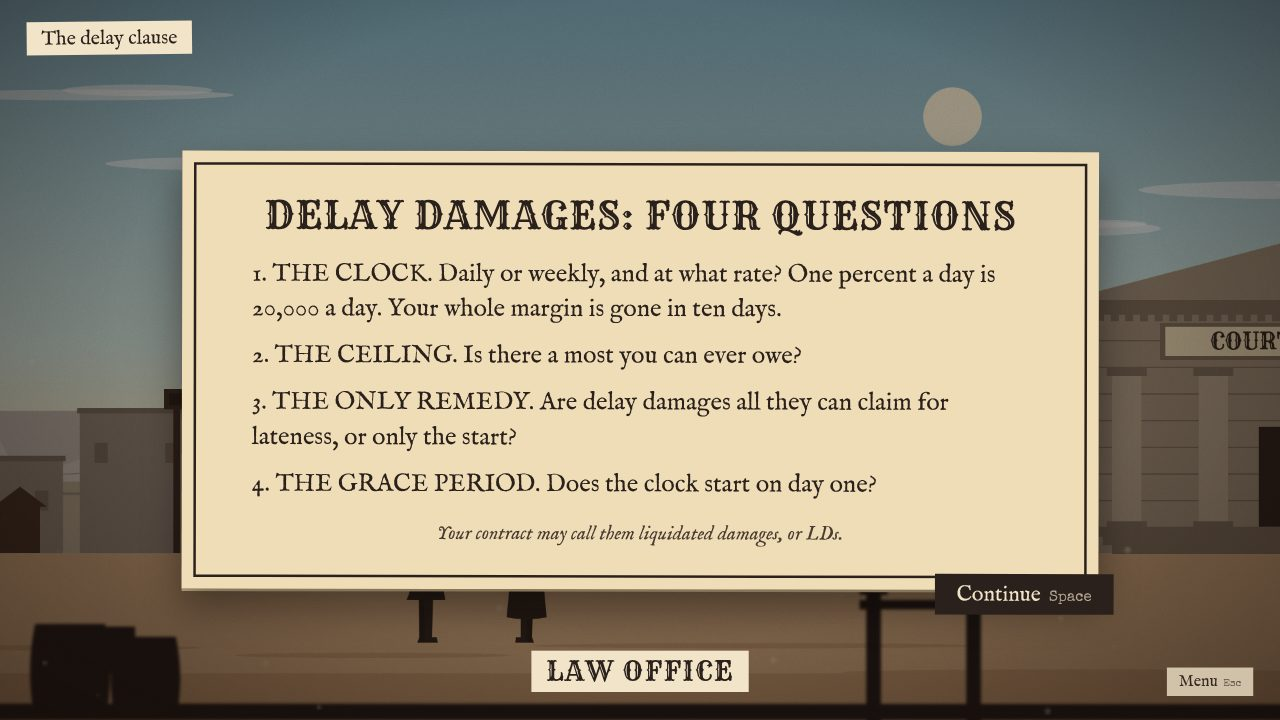
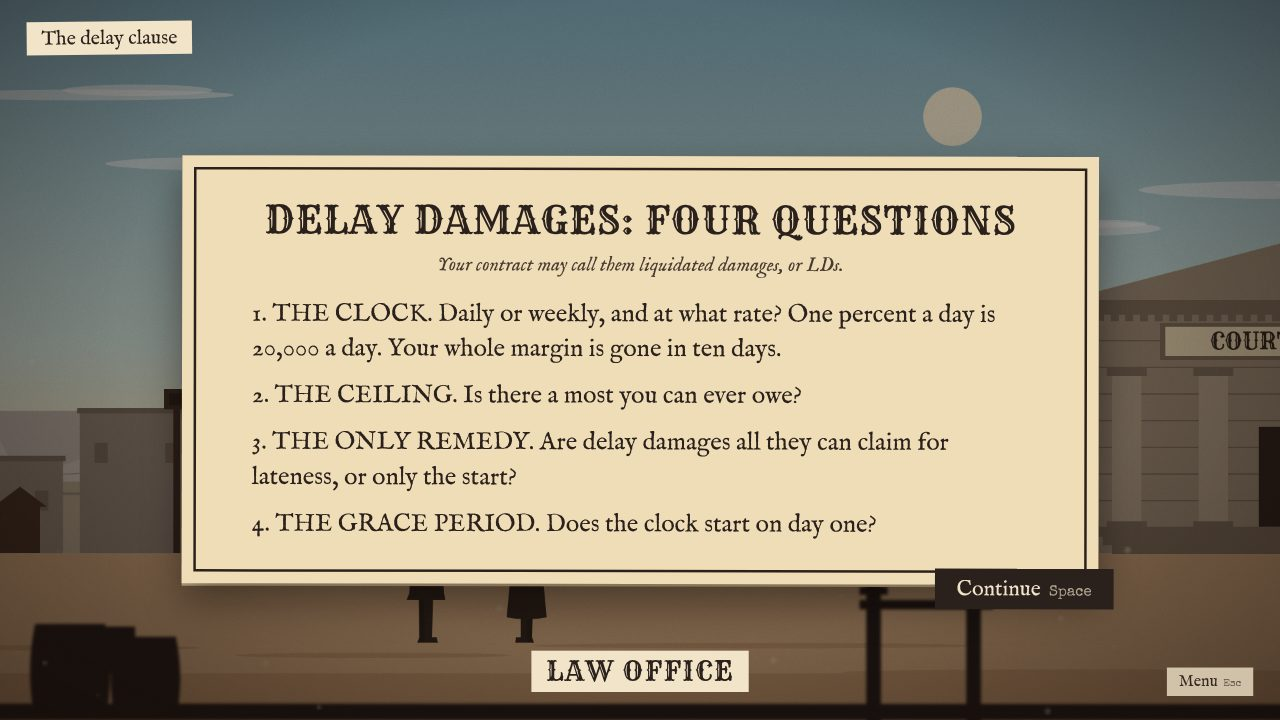
M5: review fixes
The card's small print goes under its title, the pick panel's portrait goes with the
hint (the speaker's line), and large text reaches 38 on the debrief and posters. Skip
keeps a deal that reached its ledger. The reduced-motion run also checks that nothing
walked or typed.

Changed region(s): [[0.125, 0.3667, 0.875, 0.8556], [0.1562, 0.1833, 0.875, 0.2444], [0.1875, 0.275, 0.8125, 0.3361]]

diff --git a/tools/shots.js b/tools/shots.js
@@ -44,7 +44,7 @@ const SHOTS = [
   { name: 'm4-paper', run: J(['clone'], 'later'), wait: 1400 },
   { name: 'm4-end-claim', run: J(['clone']), wait: 900 },
   { name: 'm4-end-lost', run: J(['pack', 'law', 'standfirm']), instant: true, wait: 900 },
-  { name: 'm4-end-deal', run: J(['pack', 'law', 'law']), wait: 1500 },
+  { name: 'm4-end-deal', run: J(['pack', 'law', 'law']), wait: 1500, both: true },
   { name: 'm4-ledger-deal', run: J(['pack', 'law', 'law']), instant: true, keys: [' '], wait: 1500 },
   { name: 'm4-ledger-claim', run: J(['clone']), instant: true, keys: [' '], wait: 1500 },
   { name: 'm4-whatif', run: J(['clone']), instant: true, keys: [' ', ' ', ' '], wait: 700 },
@@ -185,9 +185,13 @@ async function main() {
       let i = 0;
       let deal = -1;
       let seen = null;
+      let walked = false;
+      let typed = false;
       for (let n = 0; n < 600; n += 1) {
-        const at = await evaluate("(() => { const st = B2B.debug.state(); const live = (s) => document.querySelector(s + ':not([style*=absolute])'); return { mode: B2B.debug.mode(), node: st && st.nodeId, pick: !!live('.pickpanel'), choice: !!live('.panel:not(.pickpanel)'), ledger: (document.querySelector('.ending .result:not(.later) td.amount') || {}).textContent || null, debrief: !!live('.debrief'), total: (document.querySelector('.yearend .result td.amount') || {}).textContent || null }; })()");
-        if (at.mode === 'yearend') return { deals, keysUsed, total: at.total };
+        const at = await evaluate("(() => { const st = B2B.debug.state(); const live = (s) => document.querySelector(s + ':not([style*=absolute])'); return { walking: !!document.querySelector('.figure.player.walking'), typing: document.querySelectorAll('.telegram .later').length > 0, mode: B2B.debug.mode(), node: st && st.nodeId, pick: !!live('.pickpanel'), choice: !!live('.panel:not(.pickpanel)'), ledger: (document.querySelector('.ending .result:not(.later) td.amount') || {}).textContent || null, debrief: !!live('.debrief'), total: (document.querySelector('.yearend .result td.amount') || {}).textContent || null }; })()");
+        if (at.walking) walked = true;
+        if (at.typing) typed = true;
+        if (at.mode === 'yearend') return { deals, keysUsed, total: at.total, walked, typed };
         if (at.mode === 'intro' && seen !== 'intro') {
           deal += 1;
           i = 0;
@@ -366,9 +370,9 @@ async function main() {
       await press('Enter');
       const run = await drive([['clone'], ['refuse', 'walk']], 300);
       const total = money(-19998500);
-      const ok = run.total === total;
-      if (!ok) errors.push('reduced motion session: ' + run.total);
-      console.log('reduce  ' + (ok ? 'ok  ' : 'FAIL') + ' a full session with reduced motion: ' + run.keysUsed + ' keys, ' + Math.round((Date.now() - t0) / 1000) + ' s, year end ' + run.total + ' (expected ' + total + ')');
+      const ok = run.total === total && !run.walked && !run.typed;
+      if (!ok) errors.push('reduced motion session: ' + JSON.stringify(run));
+      console.log('reduce  ' + (ok ? 'ok  ' : 'FAIL') + ' a full session with reduced motion: ' + run.keysUsed + ' keys, ' + Math.round((Date.now() - t0) / 1000) + ' s, year end ' + run.total + ' (expected ' + total + '), walked ' + run.walked + ', typed ' + run.typed);
       await page('Emulation.setEmulatedMedia', { features: [] });
     }
 

diff --git a/css/props.css b/css/props.css
@@ -222,7 +222,7 @@
 .printcard h2 { margin: 0 0 24px; font: 46px/1.15 var(--display); text-align: center; letter-spacing: 1px; }
 .printcard .points p { padding-left: 4px; }
 .printcard .points p + p { margin-top: 14px; }
-.printcard .small { margin-top: 22px; text-align: center; }
+.printcard .small { margin: -12px 0 22px; text-align: center; }
 .printcard .small, .book .small { font: italic 24px/1.35 var(--text); color: #4A3B30; }
 
 /* Poster: wood type at full size, nail holes, uneven inking. */
@@ -371,8 +371,7 @@
 .ticket .label { display: block; font: 34px/1.2 var(--text); }
 .ticket .note { display: block; margin-top: 4px; font: italic 24px/1.25 var(--text); color: #4A3B30; }
 /* The pick panel: a hint under the prompt, toggling tickets, and Confirm. */
-.pickpanel .prompt { display: inline-flex; align-items: center; gap: 18px; }
-.pickpanel .prompt .oval {
+.pickpanel .hint .oval {
   flex: none;
   width: 66px;
   height: 84px;
@@ -381,11 +380,13 @@
   overflow: hidden;
   background: radial-gradient(ellipse at 50% 40%, #EADBB8, #CDB48B);
 }
-.pickpanel .prompt .oval svg { display: block; width: 100%; height: 100%; }
+.pickpanel .hint .oval svg { display: block; width: 100%; height: 100%; }
 .pickpanel .hint {
   margin: -6px 0 16px 6px;
-  padding: 8px 24px 6px;
-  display: inline-block;
+  padding: 8px 24px 6px 10px;
+  display: inline-flex;
+  align-items: center;
+  gap: 16px;
   background: #E9DABC;
   font: italic 26px/1.3 var(--text);
   box-shadow: 0 8px 20px rgba(10, 5, 2, .3);
@@ -579,8 +580,17 @@
 /* Large text: the props grow, the scene does not (ART 8, SPEC 13). */
 .large .props { padding: 70px 0 40px; gap: 30px; }
 .large .props > * { zoom: 1.25; }
-/* The longest screens grow a little less, so they still fit the stage. */
-.large .props > .debrief, .large .props > .poster.stamped { zoom: 1.1; }
+/* The longest screens are wider in large text, so they wrap less and still fit. */
+.large .props > .debrief { width: 1440px; padding: 34px 70px 40px 96px; }
+.large .debrief h2 { margin-bottom: 10px; }
+.large .debrief li { margin-bottom: 8px; }
+.large .debrief .real { margin-top: 16px; padding: 12px 24px 14px; }
+.large .debrief .again { margin-top: 16px; }
+/* A poster's body grows to large text, but its headline and stamp keep their normal size. */
+.large .props > .poster { padding: 40px 80px 44px; }
+.large .poster h2 { font-size: 120px; }
+.large .poster.stamped h2 { margin-bottom: 142px; }
+.large .poster .stamp.across { top: 304px; font-size: 52px; }
 
 /* The plain error screen for pack problems (SPEC 5.2). */
 .problems { max-width: 1100px; margin: 60px auto; font: 22px/1.5 var(--text); }

diff --git a/src/render/props.js b/src/render/props.js
@@ -296,12 +296,13 @@
     return h;
   }
 
-  // A stiff printed card: the title in display type, the numbered points, small print.
+  // A stiff printed card: the title in display type, its small print, the numbered points.
   function card(parent, view, ctx, onContinue) {
     const prop = el('div', 'prop printcard', parent);
     if (view.title) el('h2', '', prop, view.title);
-    paragraphs(el('div', 'points', prop), view.text);
+    // The small print goes under the title (PACK-FORMAT): it names the thing the card is about.
     if (view.small) el('p', 'small', prop, view.small);
+    paragraphs(el('div', 'points', prop), view.text);
     const h = handle(prop, tilt(view.title || view.text.join(' ')), onContinue, ctx.onComplete);
     h.complete();
     return h;
@@ -347,11 +348,14 @@
   // works only at the right count (SPEC 6.4, ART 9).
   function pick(parent, view, ctx, onPick) {
     const prop = el('div', 'prop panel pickpanel', parent);
-    const head = el('div', 'prompt', prop);
-    const c = ctx.cast[view.who];
-    if (c && c.look) el('span', 'oval', head).innerHTML = B2B.figures.portrait(c.look);
-    el('span', '', head, view.prompt);
-    if (view.hint) el('div', 'hint', prop, view.hint);
+    el('div', 'prompt', prop, view.prompt);
+    // The hint is the speaker's line (PACK-FORMAT: who and hint), so the portrait goes with it.
+    if (view.hint) {
+      const hint = el('div', 'hint', prop);
+      const c = ctx.cast[view.who];
+      if (c && c.look) el('span', 'oval', hint).innerHTML = B2B.figures.portrait(c.look);
+      el('span', '', hint, view.hint);
+    }
     const chosen = [];
     let done = false;
     const tickets = view.options.map(function (o, i) {

diff --git a/src/boot.js b/src/boot.js
@@ -181,8 +181,9 @@
     intro();
   }
 
+  // Skip: a deal played to its ledger keeps its result; one cut short has none.
   function skip() {
-    session.deals = session.deals.slice(0, session.index);
+    if (mode !== 'ledger') session.deals = session.deals.slice(0, session.index);
     nextDeal();
   }
 
@@ -225,9 +226,13 @@
       return;
     }
     if (!go) return;
-    e.preventDefault();
-    if (mode === 'deal') director.press();
-    else if (screen && screen.press) screen.press();
+    if (mode === 'deal') {
+      e.preventDefault();
+      director.press();
+    } else if (screen && screen.press) {
+      e.preventDefault();
+      screen.press();
+    }
   }
 
   // A click on the scene itself skips a walk, a run or the train.

diff --git a/docs/DECISIONS.md b/docs/DECISIONS.md
@@ -86,6 +86,17 @@ Newest first. One line each. "Who" is `author` or `claude`.
 | Date | Milestone | Decision | Who | Why |
 |---|---|---|---|---|
 | 2026-11-13 | — | Keep building milestone after milestone overnight. Each milestone is reviewed and gets its own pull request, stacked on the one before, for the author to merge. Check-in questions carry a suggested answer, which stands until the author says otherwise. | author | "Work through the night. I really want to see the game and then I will direct you." |
+| 2026-11-13 | M5 | The title screen's line of pitch is "What contract terms can cost." | claude | SPEC 4 asks for one line and none is written. Taken from the project's own description. For the author. |
+| 2026-11-13 | M5 | Straight quote marks show as curly ones in every prop (“ ” ‘ ’). Only the shape of the marks changes, never the words; the packs keep straight quotes. | claude | IM Fell English draws a straight " as a closing quote, so "Only remedy" opened with the wrong mark. |
+| 2026-11-13 | M5 | The session lives in `src/boot.js`: title, set-up, intro, deal, ledger screens, year end. | claude | SPEC 11 has no session file, and boot starts everything. |
+| 2026-11-13 | M5 | Set-up remembers the ticked deals, text size and walking in the browser's storage, and works without it. `Play` on the title uses every scenario with the default options. | claude | D8 and SPEC 4. |
+| 2026-11-13 | M5 | Large text zooms the props by 1.25 (body 30 to 38, option labels 34 to 43). The debrief grows wider to fit; a poster keeps its headline and stamp at their normal size. The scene is unchanged. | claude | ART 8 and SPEC 13. |
+| 2026-11-13 | M5 | The menu shows "Restart this deal" and "Skip to the next deal" (or "to the year end") only during a deal, then "Back to set up" and "Text size". Restart drops that deal's result; skip keeps it if the deal reached its ledger. | claude | SPEC 6.4. |
+| 2026-11-13 | M5 | The pick panel shows the prompt, then the hint on its own strip with the speaker's small portrait beside it (the hint is the speaker's line). Once the count is reached another ticket cannot be punched until one is unpunched. Confirm reads "Confirm 1 of 2". | claude | SPEC 6.4 and ART 9: a clear picked state that does not rely on colour. |
+| 2026-11-13 | M5 | The debrief's button reads "Next deal" or "Year end". The deal's title and week leave the screen at the ledger. | claude | SPEC 4: after the debrief comes the next deal or the year end. |
+| 2026-11-13 | M5 | Year end outcomes read Deal, Claim, Lost, Settled (the ending's `result`). The title, set-up and year end stand over the town at the supply company. | claude | SPEC 4. |
+| 2026-11-13 | M5 | Interface labels: "Play", "Set up", "Start", "Text size", "Normal", "Large", "Walking", "On", "Off", "Tick at least one deal", "Year end", "Total", "Next deal", "Confirm N of M". | claude | SPEC 4 and 6.4 words. |
+| 2026-11-13 | M5 | Debug: `session(ids, options)` starts a session at its first intro card; `screen('title' or 'setup')`. | claude | SPEC 12.3, for the screenshot tool. |
 | 2026-11-13 | M4 | A face-up page arrives face down and turns over whenever the last page shown was face down, even at another place. | claude | SPEC 6.3 says "at the same place", but `s1` shows the nine pages at the supply company and Ms Vance turns them over at the law office. Her lead says she turns them. |
 | 2026-11-13 | M4 | A page with `who` has a pencil line in the margin of every clause, and that person's name and title pencilled under them, so it reads as their marks and not as their page. | claude | ART 9: "A marked clause has a pencil line in the margin." `law1` is the lawyer's reading, and her foot says she marked them. |
 | 2026-11-13 | M4 | The newspaper's date line shows the town's name. The `lead` ("Eleven months later.") stays a strip above the paper, as on every prop. | claude | ART 9 asks for a date line, and the script gives no date. |

diff --git a/docs/STATUS.md b/docs/STATUS.md
@@ -5,35 +5,35 @@ the end of every milestone. Keep it under 40 lines.
 
 ## Now
 
-- **Current milestone:** M4, the whole town and scenario 1 in it (branch `m4-town-s1`).
-- **Open pull requests**, stacked, for the author to merge in order: #2 M1, #3 M2, #4 M3.
+- **Current milestone:** M5, scenario 2 in the town and the session (branch `m5-s2-session`).
+- **Open pull requests**, stacked, to merge in order: #2 M1, #3 M2, #4 M3, #5 M4.
 
 ## What exists
 
 - M0-M2: `tools/check.js`, `tools/shots.js`, Stop hook; `src/core/{packs,engine}.js`,
   `packs/public.js` (`s1`, `s2`), `text.html`, `tools/{transcript,load}.js`, tests, 150 fixture paths.
 - M3: fonts and licences, `css/base.css`, `css/props.css`, `src/render/{town,stage,figures,props}.js`.
-- M4: `index.html` plays `s1` start to debrief. The whole street, five moods, the clerk,
-  the lawyer, the runner, the train, every `s1` prop, `src/render/director.js`,
-  `src/ui/ledger.js` (ledger, what-ifs, debrief), `src/ui/screens.js` (intro card, menu,
-  pack-problem screen). `B2B.session` is a stub in `boot.js` until M5.
+- M4: the whole street, five moods, cast, runner, train, every `s1` prop, the director,
+  `src/ui/ledger.js` (ledger, what-ifs, debrief), `src/ui/screens.js`.
+- M5: the full game. Title, set-up, both deals, year end, large text, walking off, the
+  menu. Pick panel, card, week, Mr Dade. The session is in `src/boot.js`.
 - `src/core/`: not even a comment may say `Date`, `window`, `document` or `Math.random`.
 
 ## Commands that work today
 
 - `node tools/check.js`: scan, packs, fixtures, tests, repository.
 - `node tools/transcript.js s1 pack law law`, `npm run fixtures`.
-- `node tools/shots.js [names] [--paths] [--keys] [--frames]`: `--paths` plays every `s1`
-  path through the screen and checks the ledger; `--keys` plays one at full speed by
-  keyboard, then by mouse, the menu, and with reduced motion.
+- `node tools/shots.js [names] [--paths] [--keys] [--frames]`: `--paths` plays 11 paths
+  and a session through the screen against the fixtures; `--keys` a full session by
+  keyboard, a mouse run, and a session with reduced motion.
 - Open `index.html` or `text.html` from disk. `?debug=1`: overlay, `B2B.debug.jump(...)`.
 
 ## Open questions for the author (suggested answers stand meanwhile)
 
 - `s1`, `s2` blurbs and minutes; D3; `s2` `protest` lead "MR Dade AGREED" (not in capitals).
-- M3 look, blur behind props, Rye whole or cut down: questions on PR #4.
+- M3 look, blur, Rye (PR #4). Page turns and the face-down title (PR #5). Pitch line.
+- Check-in 5: agree the wildcard alternatives for M6 (slot tables in each script).
 
 ## For later milestones
 
-- M5: set-up, year end, real `B2B.session`, the other menu entries, `card` and pick on screen.
 - M6: when a private pack replaces `s1`, check the game starts the replacement.
